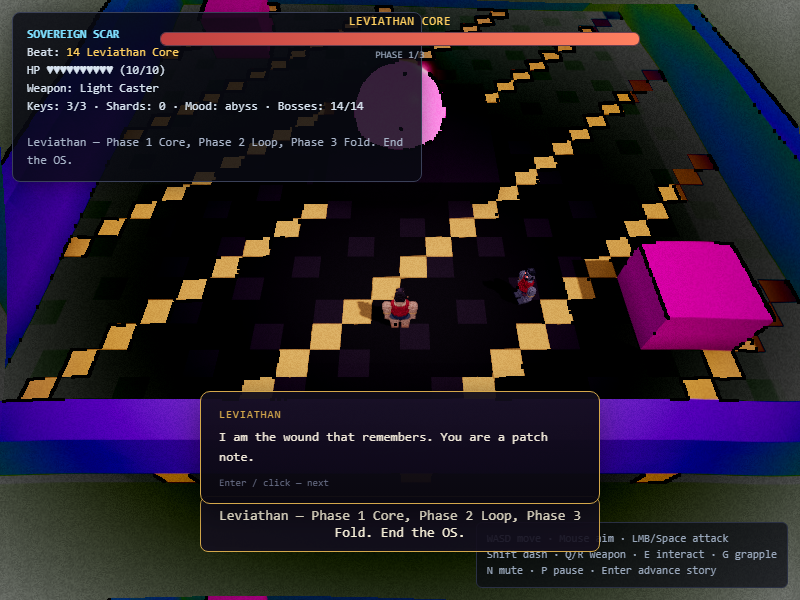
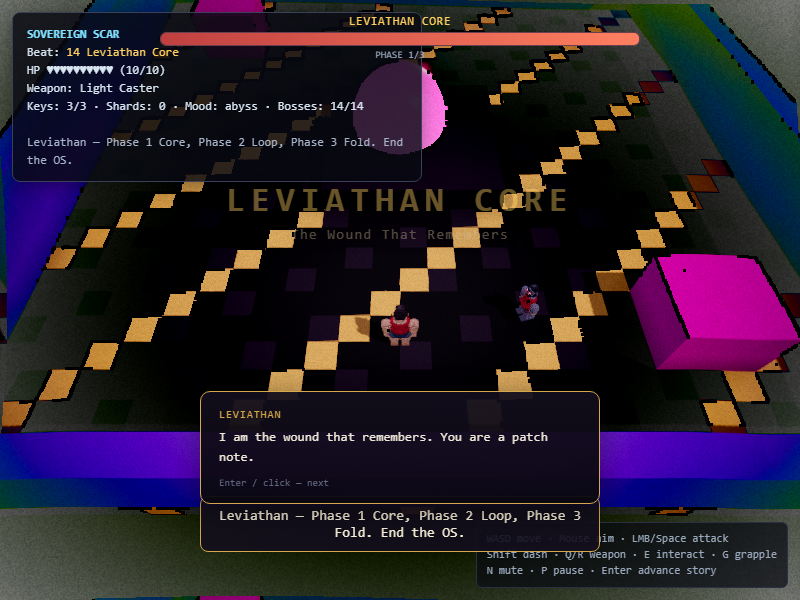
feat(C3): Beat 11 Rot Mire as an 8-room abyss dungeon
Drowned library with per-room sludge fluid pools + dry-islet paths,
card-catalogue map, wedge-cracked inkwell secret, sump boss-key
gauntlet, Sludge Golem wallow.

Suite 905/905.

diff --git a/src/game/levels/beat-11-mire.js b/src/game/levels/beat-11-mire.js
@@ -1,34 +1,27 @@
-import { createLevelShell, ABYSS_COLORS } from './_common.js';
+// Beat 11 — The Rot Mire (Misery Mire).
+// C3: 8-room drowned library, sludge friction. Fluid pools with dry-islet
+// paths; the Sludge Golem is what remains of the shelves.
+//
+// Layout:                [golemwallow]   Sludge Golem (boss door)
+//                        [stacksump]     boss key gauntlet
+//      [inkwell*] —      [readingroom]   locked, altar, key 2
+//    [cardfile] — [mirefloor] — [shelfrow]
+//        map          key 1          islet cache over sludge
+//                        [lichgate]      start; S exit → overworld
+
+import { createDungeon } from '../world/room-graph.js';
+import { addKeyPickup } from '../world/keys.js';
+import { ABYSS_COLORS } from '../assets/palettes.js';
 import { FluidPlane } from '../world/fluid-plane.js';
-import { fillBox } from '../../voxel/helpers.js';
 import { SludgeGolem, attachBoss } from '../bosses/index.js';
+import { addAltar } from '../world/altar.js';
 
-export function loadBeat11(ctx) {
-    const level = createLevelShell(ctx, {
-        id: 'beat-11-mire',
-        name: '11 Rot Mire',
-        half: 13,
-        mood: 'abyss',
-        friction: 'sludge',
-        floorColor: ABYSS_COLORS.rot,
-        wallColor: 0x2a3820,
-        banner: 'Sludge Golem drops poison pools. Stay on dry islets.',
-        stamp(map) {
-            fillBox(map, -3, 3, 1, 1, -3, 3, 0x4a4030);
-            fillBox(map, -9, -6, 1, 1, 4, 8, 0x4a4030);
-            fillBox(map, 6, 9, 1, 1, -8, -5, 0x4a4030);
-            fillBox(map, -1, 1, 1, 1, 6, 9, 0x4a4030);
-        },
-    });
+const ISLET = 0x4a4030;
 
-    level.musicBed = 'boss';
-    level.story = [
-        { speaker: 'PREDECESSOR', text: 'The mire was a library once. The golem is what remains of the shelves.' },
-        { speaker: 'SYSTEM', text: 'Pools steal footing. Lunge telegraphs mark impact sites.' },
-    ];
-
+function addSludge(level, ctx, origin, size) {
     const fluid = new FluidPlane(ctx.scene, {
-        width: 28, depth: 28, y: 0.35, amp: 0.18,
+        width: size, depth: size, y: 0.35, amp: 0.18,
+        x: origin.x, z: origin.z,
         wind: { x: 1.5, z: 0.4 },
         color: ABYSS_COLORS.sludge,
     });
@@ -37,25 +30,223 @@ export function loadBeat11(ctx) {
             fluid.update(dt);
             const p = game.player.root.position;
             if (fluid.contains(p.x, p.z) && p.y < 1.5) {
-                game.player.setFriction('sludge');
                 game.player.physics.setFrictionProfile({
                     groundDrag: 0.35, airDrag: 0.97, windVector: fluid.wind,
                 });
-            } else {
-                game.player.setFriction('default');
             }
         },
-        dispose: () => fluid.dispose(),
+        dispose() { fluid.dispose(); },
     });
+}
 
-    level.addEnemy({ x: -7, y: 1.5, z: 6 }, { kind: 'scarab', hp: 4, ai: 'charge' });
-    level.addEnemy({ x: 7, y: 1.5, z: -6 }, { kind: 'scarab', hp: 4 });
+export const BEAT11_DEF = {
+    id: 'beat-11-mire',
+    name: '11 Rot Mire',
+    mood: 'abyss',
+    start: 'lichgate',
+    prebake: true,
+    friction: 'sludge',
+    floorColor: ABYSS_COLORS.rot,
+    wallColor: 0x2a3820,
+    banner: 'The mire was a library once. Keep to the dry islets.',
+    keys: [
+        { room: 'mirefloor', type: 'small' },
+        { room: 'readingroom', type: 'small' },
+        { room: 'stacksump', type: 'boss' },
+    ],
+    onExit(game) {
+        game.loadLevel?.('overworld');
+    },
+    rooms: {
+        lichgate: {
+            grid: [0, 0],
+            half: 7,
+            wallH: 4,
+            spawn: { x: 0, z: 4 },
+            build(map, h) {
+                h.fillBox(map, -2, 2, 1, 1, -2, 0, ISLET);
+            },
+            doors: [
+                { to: 'mirefloor', side: 'N', at: 0, type: 'open' },
+                { to: '_world', side: 'S', at: 0, type: 'exit' },
+            ],
+        },
+        mirefloor: {
+            grid: [0, -1],
+            half: 11,
+            wallH: 4,
+            build(map, h) {
+                h.fillBox(map, -3, 3, 1, 1, -3, 3, ISLET);
+                h.fillBox(map, -9, -6, 1, 1, 4, 8, ISLET);
+                h.fillBox(map, 6, 9, 1, 1, -8, -5, ISLET);
+                h.fillBox(map, -1, 1, 1, 1, 6, 9, ISLET);
+            },
+            enemies: [
+                { x: -5, z: 4, kind: 'scarab', hp: 4, ai: 'charge' },
+                { x: 5, z: -5, kind: 'sentinel', hp: 5 },
+            ],
+            doors: [
+                { to: 'lichgate', side: 'S', at: 0, type: 'open' },
+                { to: 'readingroom', side: 'N', at: 0, type: 'locked' },
+                { to: 'cardfile', side: 'W', at: 0, type: 'open' },
+                { to: 'shelfrow', side: 'E', at: 0, type: 'open' },
+            ],
+            onBake(level, origin, ctx) {
+                addSludge(level, ctx, origin, 21);
+                addKeyPickup(level, 'beat-11-mire', 'floor-key',
+                    { x: origin.x + 7, y: 2.4, z: origin.z - 6 }, 'small');
+            },
+        },
+        cardfile: {
+            grid: [-1, -1],
+            half: 7,
+            wallH: 4,
+            build(map, h) {
+                h.fillBox(map, -5, -4, 1, 3, -5, 4, 0x3a4428); // rotted drawers
+                h.fillBox(map, -1, 0, 1, 3, -5, 4, 0x3a4428);
+            },
+            enemies: [{ x: 3, z: 3, kind: 'frost', hp: 4, ai: 'ranged' }],
+            doors: [{ to: 'mirefloor', side: 'E', at: 0, type: 'open' }],
+            onBake(level, origin) {
+                if (!level.keyStore.mapPickup()) {
+                    level.addPickup({ x: origin.x + 4, y: 1.2, z: origin.z - 4 }, {
+                        color: 0x9ad0ff,
+                        label: 'Card catalogue',
+                        onPickup(game) {
+                            level.keyStore.markMapPickup();
+                            game.hud?.toast?.('Card catalogue — the map reveals the stacks');
+                        },
+                    });
+                }
+            },
+        },
+        shelfrow: {
+            grid: [1, -1],
+            half: 8,
+            wallH: 4,
+            build(map, h) {
+                h.fillBox(map, -6, -5, 1, 3, -6, 6, 0x3a4428); // sunken shelves
+                h.fillBox(map, -2, -1, 1, 3, -6, 6, 0x3a4428);
+                h.fillBox(map, 2, 3, 1, 1, -2, 2, ISLET);
+            },
+            enemies: [{ x: 5, z: -4, kind: 'scarab', hp: 4, ai: 'charge' }],
+            doors: [{ to: 'mirefloor', side: 'W', at: 0, type: 'open' }],
+            onBake(level, origin, ctx) {
+                addSludge(level, ctx, origin, 15);
+                level.addPickup({ x: origin.x + 2, y: 2.4, z: origin.z }, {
+                    color: 0x7fe0ff,
+                    label: 'Shelf cache',
+                    onPickup(game) {
+                        game.player.inventory.addShards(25);
+                        game.hud?.toast?.('Shelf cache — 25 shards');
+                    },
+                });
+            },
+        },
+        readingroom: {
+            grid: [0, -2],
+            half: 9,
+            wallH: 4,
+            build(map, h) {
+                h.fillBox(map, -7, -6, 1, 3, -3, 3, 0x3a4428);
+                h.fillBox(map, 6, 7, 1, 3, -3, 3, 0x3a4428);
+                h.fillBox(map, -2, 2, 1, 1, -2, 2, ISLET); // lectern islet
+            },
+            enemies: [
+                { x: -4, z: 0, kind: 'sentinel', hp: 5 },
+                { x: 4, z: 0, kind: 'frost', hp: 4, ai: 'ranged' },
+            ],
+            doors: [
+                { to: 'mirefloor', side: 'S', at: 0, type: 'locked' },
+                { to: 'stacksump', side: 'N', at: 0, type: 'locked' },
+                { to: 'inkwell', side: 'W', at: 3, type: 'open', width: 1 },
+            ],
+            onBake(level, origin, ctx) {
+                addAltar(level, ctx, { x: origin.x + 6, z: origin.z + 6 });
+                addKeyPickup(level, 'beat-11-mire', 'reading-key',
+                    { x: origin.x - 6, y: 1.2, z: origin.z - 6 }, 'small');
+            },
+        },
+        inkwell: { // secret: wedge-cracked ink cistern
+            grid: [-1, -2],
+            half: 5,
+            wallH: 4,
+            doors: [{ to: 'readingroom', side: 'E', at: 3, type: 'open', width: 1 }],
+            blockers: [
+                { type: 'wedge_crack', id: 'b11-ink-crack', at: { x: -2, z: -2 }, w: 2, h: 2 },
+            ],
+            onBake(level, origin) {
+                level.addPickup({ x: origin.x + 2, y: 1.2, z: origin.z + 2 }, {
+                    color: 0x7fe0ff,
+                    label: 'Inkwell cache',
+                    onPickup(game) {
+                        game.player.inventory.addShards(30);
+                        game.hud?.toast?.('Inkwell cache — 30 shards');
+                    },
+                });
+            },
+        },
+        stacksump: {
+            grid: [0, -3],
+            half: 8,
+            wallH: 4,
+            build(map, h) {
+                h.fillBox(map, -3, 3, 1, 1, -1, 1, ISLET);
+            },
+            enemies: [
+                { x: -3, z: -3, kind: 'scarab', hp: 4, ai: 'charge' },
+                { x: 3, z: -3, kind: 'scarab', hp: 4, ai: 'charge' },
+                { x: 0, z: 3, kind: 'frost', hp: 4, ai: 'ranged' },
+            ],
+            doors: [
+                { to: 'readingroom', side: 'S', at: 0, type: 'locked' },
+                { to: 'golemwallow', side: 'N', at: 0, type: 'boss' },
+            ],
+            onBake(level, origin, ctx) {
+                addSludge(level, ctx, origin, 13);
+                addKeyPickup(level, 'beat-11-mire', 'sump-boss-key',
+                    { x: origin.x, y: 2.4, z: origin.z - 5 }, 'boss');
+            },
+        },
+        golemwallow: {
+            grid: [0, -4],
+            half: 13,
+            wallH: 5,
+            build(map, h) {
+                h.fillBox(map, -3, 3, 1, 1, -3, 3, ISLET);
+                h.fillBox(map, -9, -6, 1, 1, 4, 8, ISLET);
+                h.fillBox(map, 6, 9, 1, 1, -8, -5, ISLET);
+                h.fillBox(map, -1, 1, 1, 1, 6, 9, ISLET);
+            },
+            doors: [{ to: 'stacksump', side: 'S', at: 0, type: 'boss' }],
+            boss(ctx, level, origin) {
+                const golem = new SludgeGolem(ctx.scene, {
+                    x: origin.x, y: 1.4, z: origin.z - 4,
+                });
+                attachBoss(level, golem, {
+                    nextBeat: 'beat-12-pyre',
+                    toast: 'Golem dissolved — Pyre Peak burns above',
+                });
+            },
+            onEnter(game) {
+                const boss = game?.level?.boss;
+                if (boss && !boss.defeated && !this._introFired) {
+                    this._introFired = true;
+                    game.bossIntro = { t: 0.6, boss, fired: false };
+                    game.mood?.setMusicProfile?.('boss');
+                }
+            },
+        },
+    },
+};
 
-    const golem = new SludgeGolem(ctx.scene, { x: 0, y: 1.4, z: 0 });
-    attachBoss(level, golem, {
-        nextBeat: 'beat-12-pyre',
-        toast: 'Golem sinks — Pyre Peak ignites',
-    });
-
+export function loadBeat11(ctx) {
+    const level = createDungeon(ctx, BEAT11_DEF);
+    level.suppressBossIntro = true;
+    level.musicBed = 'abyss';
+    level.story = [
+        { speaker: 'PREDECESSOR', text: 'The mire was a library once. The golem is what remains of the shelves.' },
+        { speaker: 'SYSTEM', text: 'Pools steal footing. Lunge telegraphs mark impact sites.' },
+    ];
     return level;
 }